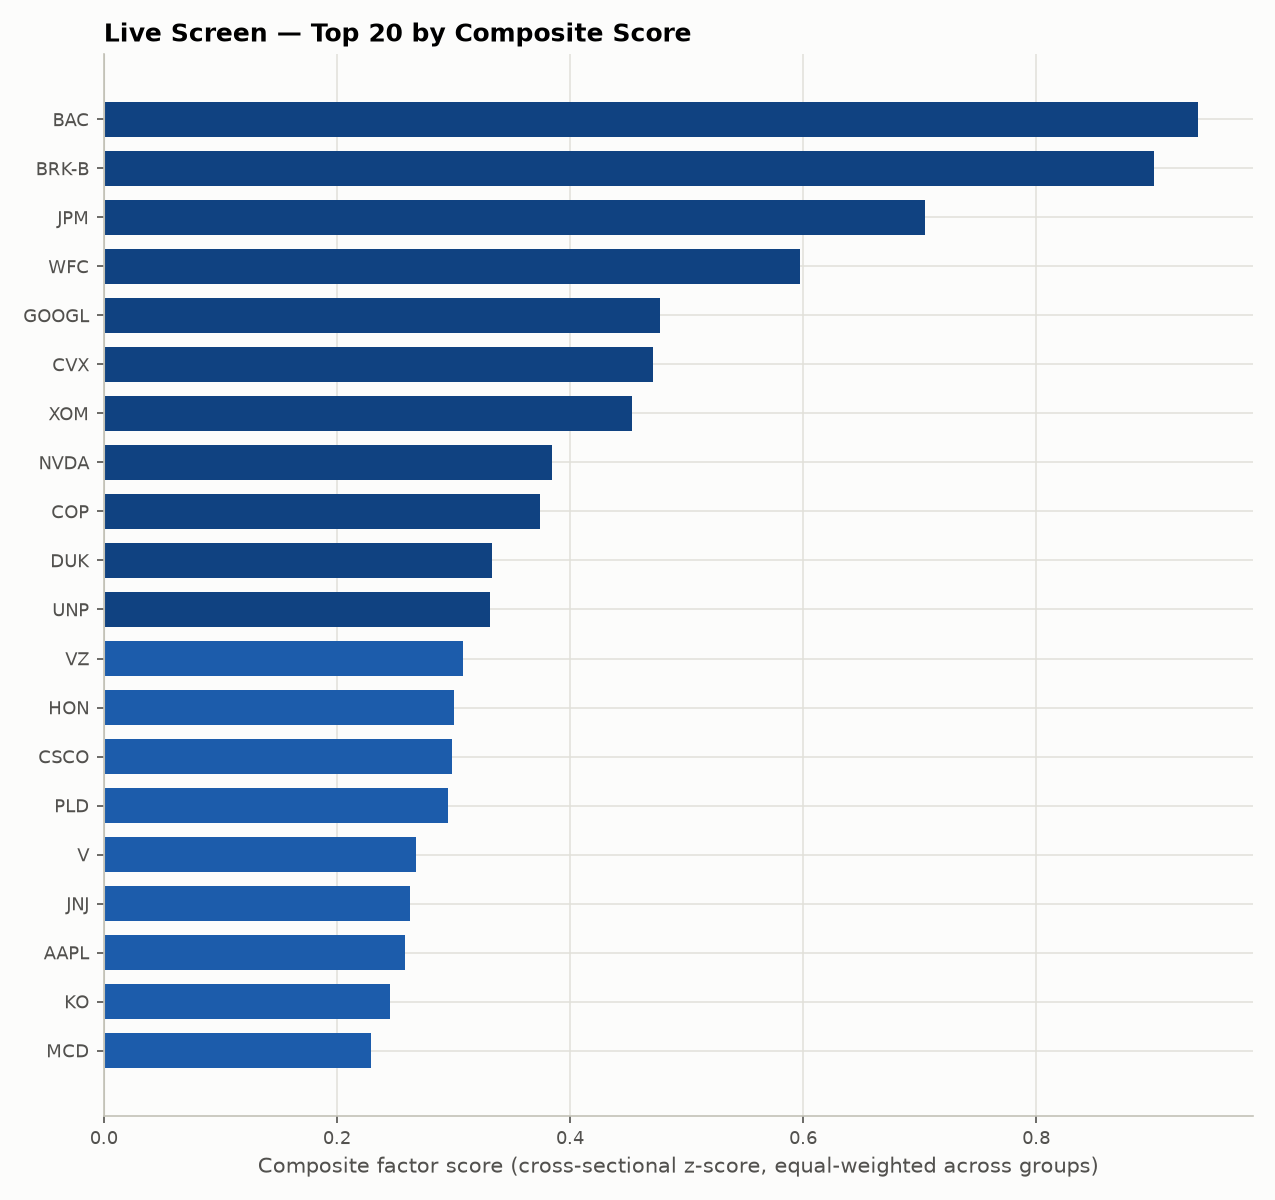
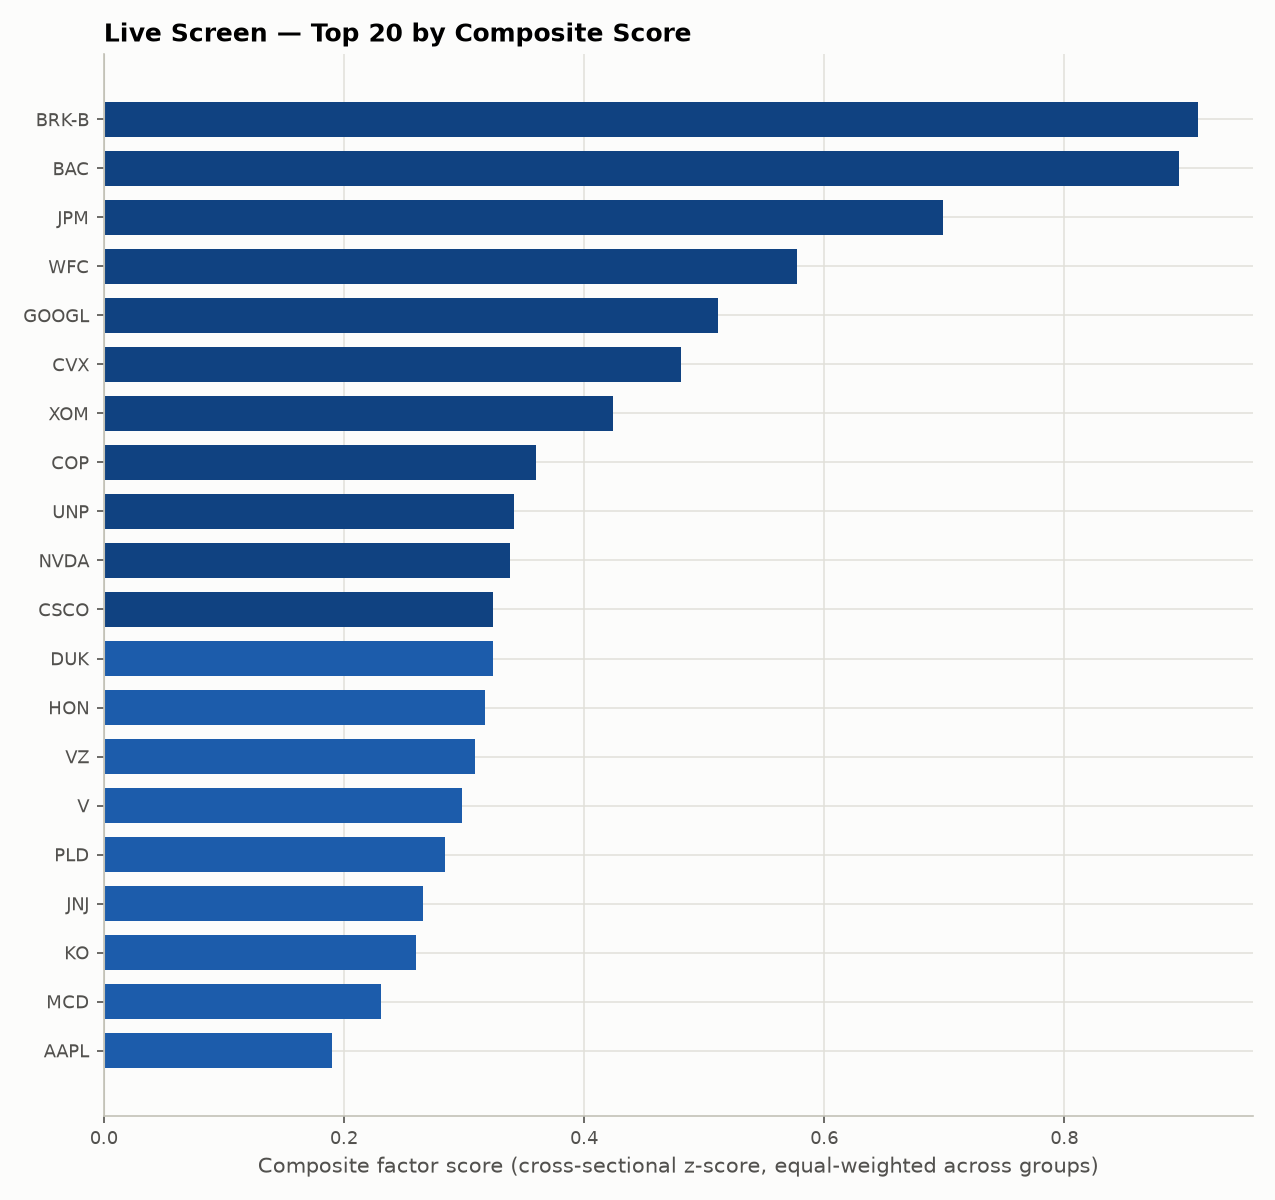
Replace percentile winsorization with a robust median/MAD bound
The 1st/99th percentile cut did not do what the documentation claimed. At
N=53 the 99th percentile is interpolated between the largest and
second-largest observation, so the bound lands beside the outlier it is
meant to contain. A synthetic test with one value 1000x out of scale showed
it clipping to ~900x out of scale and compressing the z-score spread across
ten well-behaved observations to 0.003 — the protection was effectively
absent exactly when it mattered most, and silently so.

Median and MAD (rescaled by 1.4826) have a 50% breakdown point, so the bound
is set by the bulk of the distribution regardless of tail severity or
universe size. Falls back to the empirical range when MAD is zero.

Numbers move accordingly: the combined Q1-Q5 spread goes from -389 to -765
bps, momentum from +928 to +933. Low volatility is unchanged at -2182 bps,
since it has a single input and winsorization is monotonic, so the
cross-sectional ranking it depends on does not move. The headline conclusion
is unaffected.

Found by an independent review pass: the ordering of operations was correct
and an inspection-based review confirmed it, but a synthetic-data test caught
that the mechanism itself was ineffective at this sample size.

diff --git a/src/scoring.py b/src/scoring.py
@@ -8,12 +8,17 @@ momentum of 0.30 cannot be averaged directly — so each is converted to a
 cross-sectional z-score before being combined.
 
 **Outliers are handled in two stages, deliberately.** Raw values are first
-winsorized at the 1st and 99th percentiles, then z-scored, then the
-resulting z-scores are clipped at ±3. The first stage matters more than it
-looks: an extreme observation contaminates the mean and standard deviation
-used to standardize every other stock, so clipping only after the fact
-leaves the damage already done. Winsorizing first means the distribution is
-computed from a sane sample; the final clip is a light backstop.
+winsorized against a robust centre and spread (median ± 3 rescaled MADs),
+then z-scored, then the resulting z-scores are clipped at ±3. The first
+stage matters more than it looks: an extreme observation contaminates the
+mean and standard deviation used to standardize every other stock, so
+clipping only after the fact leaves the damage already done. Winsorizing
+first means the distribution is computed from a sane sample; the final clip
+is a light backstop.
+
+The robust bound is not interchangeable with a percentile one here — see
+`_winsorize` for why a 1st/99th percentile cut silently stops working at
+this universe size.
 
 **Sector-neutral scoring is available and off by default.** Comparing every
 stock against the whole universe means a value screen mostly returns banks
@@ -31,18 +36,46 @@ import pandas as pd
 
 from src.factors import FACTOR_GROUPS
 
-WINSOR_PERCENTILES = (0.01, 0.99)
 ZSCORE_CLIP = 3.0
+MAD_CLIP = 3.0
+MAD_TO_SIGMA = 1.4826  # makes MAD comparable to a standard deviation under normality
 MIN_SECTOR_SIZE = 5
 MIN_GROUPS_REQUIRED = 3
 
 
-def _winsorize(series, lower=WINSOR_PERCENTILES[0], upper=WINSOR_PERCENTILES[1]):
+def _winsorize(series, n_mad=MAD_CLIP):
+    """
+    Clips to median ± n_mad robust deviations, where the robust deviation is
+    the median absolute deviation rescaled by 1.4826 so it matches a standard
+    deviation for normally distributed data.
+
+    A percentile winsorization (the more common first instinct, and what this
+    function used to do) fails on samples this size. At N=53 the 99th
+    percentile is interpolated between the largest and second-largest
+    observation, so the bound lands right next to the outlier it is supposed
+    to contain: a value 1000x out of scale gets clipped to roughly 900x out of
+    scale, and the mean and standard deviation are contaminated anyway. The
+    breakdown is silent — the code runs, the numbers look plausible, and the
+    stated protection simply is not there.
+
+    Median and MAD have a 50% breakdown point, so the bound is set by the bulk
+    of the distribution regardless of how extreme the tail is or how few names
+    are in the universe.
+    """
     valid = series.dropna()
     if len(valid) < 5:
         return series
-    lo, hi = valid.quantile(lower), valid.quantile(upper)
-    return series.clip(lower=lo, upper=hi)
+
+    median = valid.median()
+    mad = (valid - median).abs().median() * MAD_TO_SIGMA
+
+    if not np.isfinite(mad) or mad == 0:
+        # Degenerate spread (e.g. most values identical). Fall back to the
+        # empirical range rather than collapsing every observation onto the
+        # median.
+        return series.clip(lower=valid.min(), upper=valid.max())
+
+    return series.clip(lower=median - n_mad * mad, upper=median + n_mad * mad)
 
 
 def zscore(series, clip=ZSCORE_CLIP):

diff --git a/README.md b/README.md
@@ -12,9 +12,9 @@ The combined price-based factor model **did not work** on this universe over 201
 
 | Factor (backtested alone) | Q1 return | Q5 return | Q1 - Q5 spread |
 |---|---|---|---|
-| Momentum | 23.89% | 14.61% | **+928 bps** |
+| Momentum | 23.37% | 14.05% | **+933 bps** |
 | Low Volatility | 12.10% | 33.92% | **-2182 bps** |
-| Combined (equal-weighted) | 17.65% | 21.55% | -389 bps |
+| Combined (equal-weighted) | 14.88% | 22.53% | -765 bps |
 
 *Equal-weight universe benchmark: 19.34% annualized, Sharpe 0.91.*
 
@@ -22,7 +22,7 @@ Momentum ranked stocks in the intended direction. Low volatility ranked them alm
 
 The low-volatility reversal is not a bug, and checking that was the first thing worth doing. It is what the low-volatility anomaly does when it is applied to the wrong universe. The anomaly is documented on broad cross-sections including small and mid caps, over horizons containing genuine bear markets. This universe is 53 mega-caps over a decade in which the market's return was concentrated in high-beta mega-cap growth names. Screening for low volatility in that setting systematically avoided the stocks that produced the returns. The factor did not fail randomly; it failed for a reason visible in the data.
 
-It is also worth stating that the momentum top quintile, despite the positive spread, produced a Sharpe of 0.88 against the equal-weighted universe's 0.91 — it earned more return by taking more risk, not by ranking better on a risk-adjusted basis.
+It is also worth stating that the momentum top quintile, despite the positive spread, produced a Sharpe of 0.86 against the equal-weighted universe's 0.91 — it earned more return by taking more risk, not by ranking better on a risk-adjusted basis.
 
 ![Factor attribution](outputs/factor_attribution.png)
 
@@ -42,7 +42,9 @@ It is also worth stating that the momentum top quintile, despite the positive sp
 
    Value and leverage enter as *yields and reciprocals rather than negated ratios*. Price ratios are bounded below by zero with a long right tail, so a z-score of minus-P/E is driven almost entirely by the single most expensive name in the universe; their reciprocals are far better behaved. The momentum skip-month is not decoration either: equities show short-term reversal at the one-month horizon, a distinct and opposing effect, so including the most recent month mixes a reversal signal into a momentum factor.
 
-3. **Standardization** (`src/scoring.py`) — raw values are winsorized at the 1st and 99th percentiles, z-scored cross-sectionally, then clipped at ±3. The order matters: an outlier contaminates the mean and standard deviation used to standardize every *other* stock, so clipping only after the fact leaves the damage already done.
+3. **Standardization** (`src/scoring.py`) — raw values are winsorized against a robust centre and spread (median ± 3 rescaled MADs), z-scored cross-sectionally, then clipped at ±3. The order matters: an outlier contaminates the mean and standard deviation used to standardize every *other* stock, so clipping only after the fact leaves the damage already done.
+
+   The *robust* bound is not interchangeable with a percentile one at this universe size, which is worth spelling out because the percentile version is the more natural first instinct and it fails silently. With 53 names, the 99th percentile is interpolated between the largest and second-largest observation, so the bound lands right next to the outlier it is meant to contain — a value 1000x out of scale gets clipped to roughly 900x out of scale, and the mean and standard deviation are contaminated regardless. This project used a 1st/99th percentile cut until a synthetic-data test showed it reducing the z-score spread across ten well-behaved observations to 0.003. Median and MAD have a 50% breakdown point, so the bound is set by the bulk of the distribution no matter how extreme the tail or how small the universe.
 
 4. **Composite and ranking** — factor groups are averaged equal-weighted into a composite, and the universe is sorted into quintiles. Stocks scored on fewer than three of the four groups are left unranked rather than scored on thin evidence.
 
@@ -116,7 +118,7 @@ Requires an internet connection. Individual ticker failures are handled without 
 
 ## Methodology notes and limitations
 
-- **Survivorship bias.** The universe is today's constituents, so the backtest never holds a company that was delisted, acquired, or dropped from the index. This biases historical returns upward across every quintile — note that even the *bottom* quintile returned 21.5% annualized, which is not a plausible figure for genuinely weak stocks and is largely this bias showing through. Point-in-time index membership would be needed to remove it.
+- **Survivorship bias.** The universe is today's constituents, so the backtest never holds a company that was delisted, acquired, or dropped from the index. This biases historical returns upward across every quintile — note that even the *bottom* quintile returned 22.5% annualized, which is not a plausible figure for genuinely weak stocks and is largely this bias showing through. Point-in-time index membership would be needed to remove it.
 - **Sector-neutral scoring is available but not the default.** Comparing every stock against the whole universe means a value screen mostly returns banks and energy — visible in the current output, where the top four names are all financials. Scoring within sector removes that, but this universe carries 3-8 names per sector and a z-score over three observations is not a meaningful statistic. Sectors below the size threshold fall back to universe-wide scoring, and each run reports which ones did.
 - **Simplified factor definitions.** These are practitioner-style approximations, not the full Fama-French/Carhart construction with double-sorted portfolios and additional controls.
 - **No transaction costs.** Quarterly rebalancing of quintile portfolios would incur real costs, and the long/short leg assumes shorting is frictionless and always available. Neither holds.
